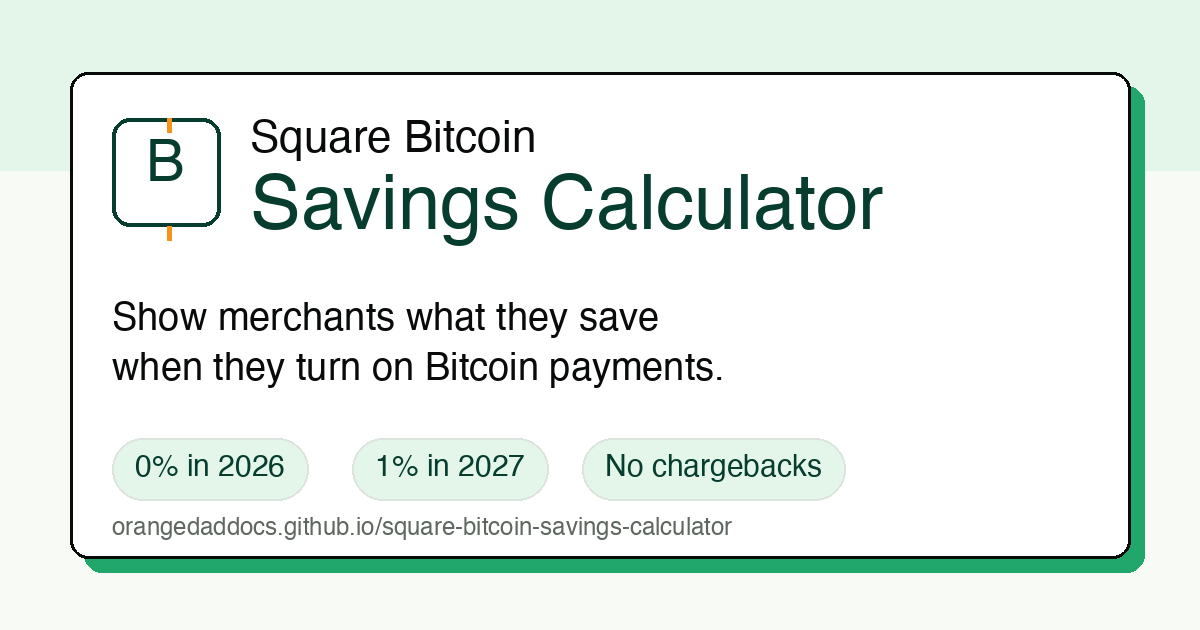
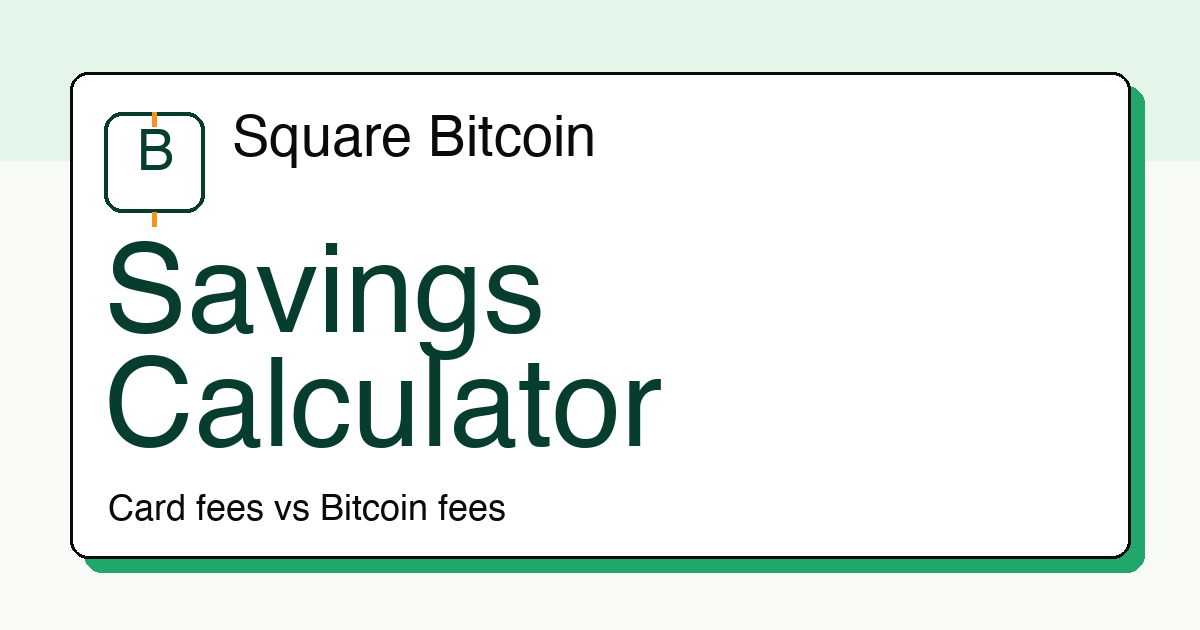
Simplify social preview image

Changed region(s): [[0.0617, 0.1508, 0.74, 0.8746]]

diff --git a/scripts/create-og-image.py b/scripts/create-og-image.py
@@ -33,54 +33,28 @@ white = "#ffffff"
 line = "#dce5dd"
 
 draw.rectangle((0, 0, WIDTH, HEIGHT), fill="#f8faf6")
-draw.rectangle((0, 0, WIDTH, 170), fill=green_100)
+draw.rectangle((0, 0, WIDTH, 160), fill=green_100)
 
 card = (70, 72, WIDTH - 70, HEIGHT - 72)
 shadow = (card[0] + 14, card[1] + 14, card[2] + 14, card[3] + 14)
 draw.rounded_rectangle(shadow, radius=18, fill=green_500)
 draw.rounded_rectangle(card, radius=18, fill=white, outline=ink, width=3)
 
-mark = (112, 118, 220, 226)
+mark = (104, 112, 204, 212)
 draw.rounded_rectangle(mark, radius=18, fill=white, outline=green_900, width=4)
-draw.text((146, 136), "B", fill=green_900, font=font(58, bold=True))
-draw.line((169, 132, 169, 118), fill=orange, width=5)
-draw.line((169, 226, 169, 240), fill=orange, width=5)
+draw.text((137, 126), "B", fill=green_900, font=font(56, bold=True))
+draw.line((154, 126, 154, 112), fill=orange, width=5)
+draw.line((154, 212, 154, 226), fill=orange, width=5)
 
-draw.text((250, 118), "Square Bitcoin", fill=ink, font=font(44, bold=True))
-draw.text((250, 170), "Savings Calculator", fill=green_900, font=font(76, bold=True))
+draw.text((232, 112), "Square Bitcoin", fill=ink, font=font(56, bold=True))
+draw.text((104, 236), "Savings", fill=green_900, font=font(124, bold=True))
+draw.text((104, 350), "Calculator", fill=green_900, font=font(124, bold=True))
 
 draw.text(
-    (112, 300),
-    "Show merchants what they save",
+    (108, 492),
+    "Card fees vs Bitcoin fees",
     fill=ink,
-    font=font(38),
-)
-draw.text(
-    (112, 350),
-    "when they turn on Bitcoin payments.",
-    fill=ink,
-    font=font(38),
-)
-
-badge_y = 438
-badges = [("0% in 2026", 112), ("1% in 2027", 352), ("No chargebacks", 582)]
-for text, x in badges:
-    text_bbox = draw.textbbox((0, 0), text, font=font(30, bold=True))
-    badge_w = text_bbox[2] - text_bbox[0] + 46
-    draw.rounded_rectangle(
-        (x, badge_y, x + badge_w, badge_y + 62),
-        radius=31,
-        fill=green_100,
-        outline=line,
-        width=2,
-    )
-    draw.text((x + 23, badge_y + 14), text, fill=green_900, font=font(30, bold=True))
-
-draw.text(
-    (112, 516),
-    "orangedaddocs.github.io/square-bitcoin-savings-calculator",
-    fill=muted,
-    font=font(24, bold=True),
+    font=font(36, bold=True),
 )
 
 OUTPUT.parent.mkdir(parents=True, exist_ok=True)